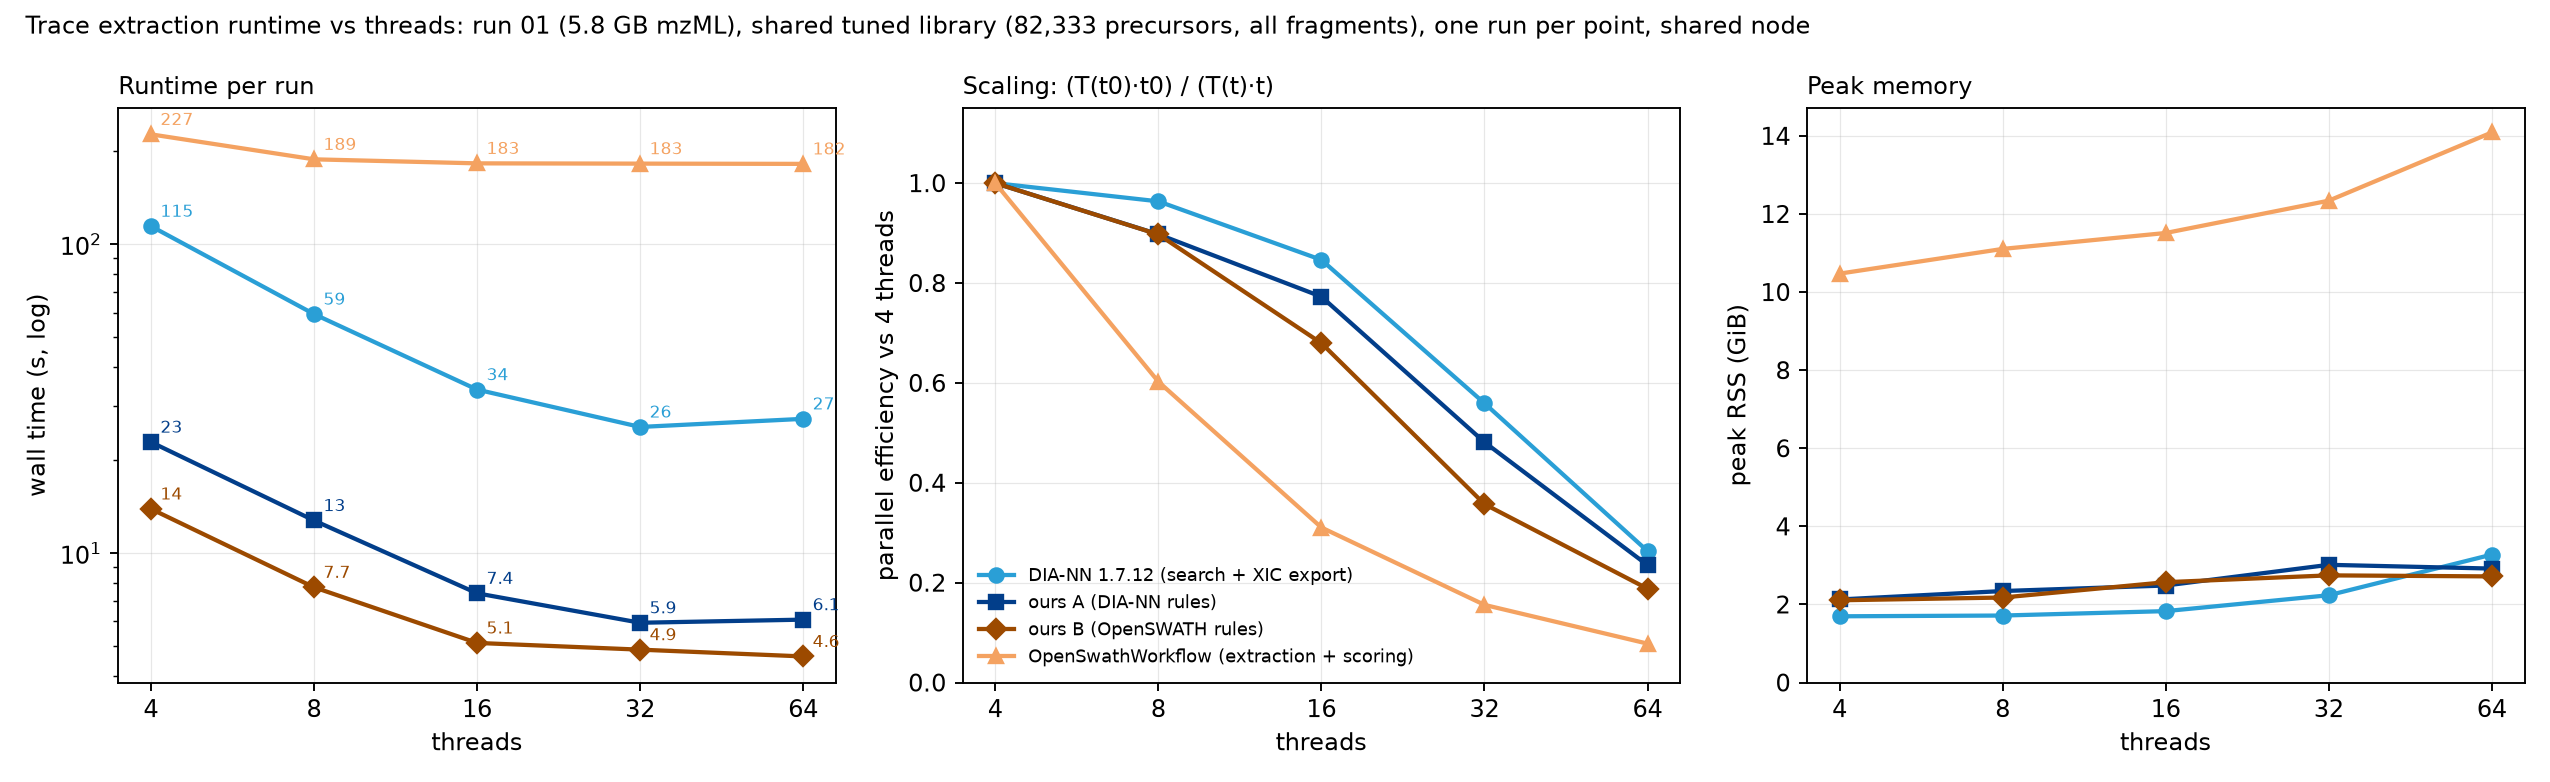
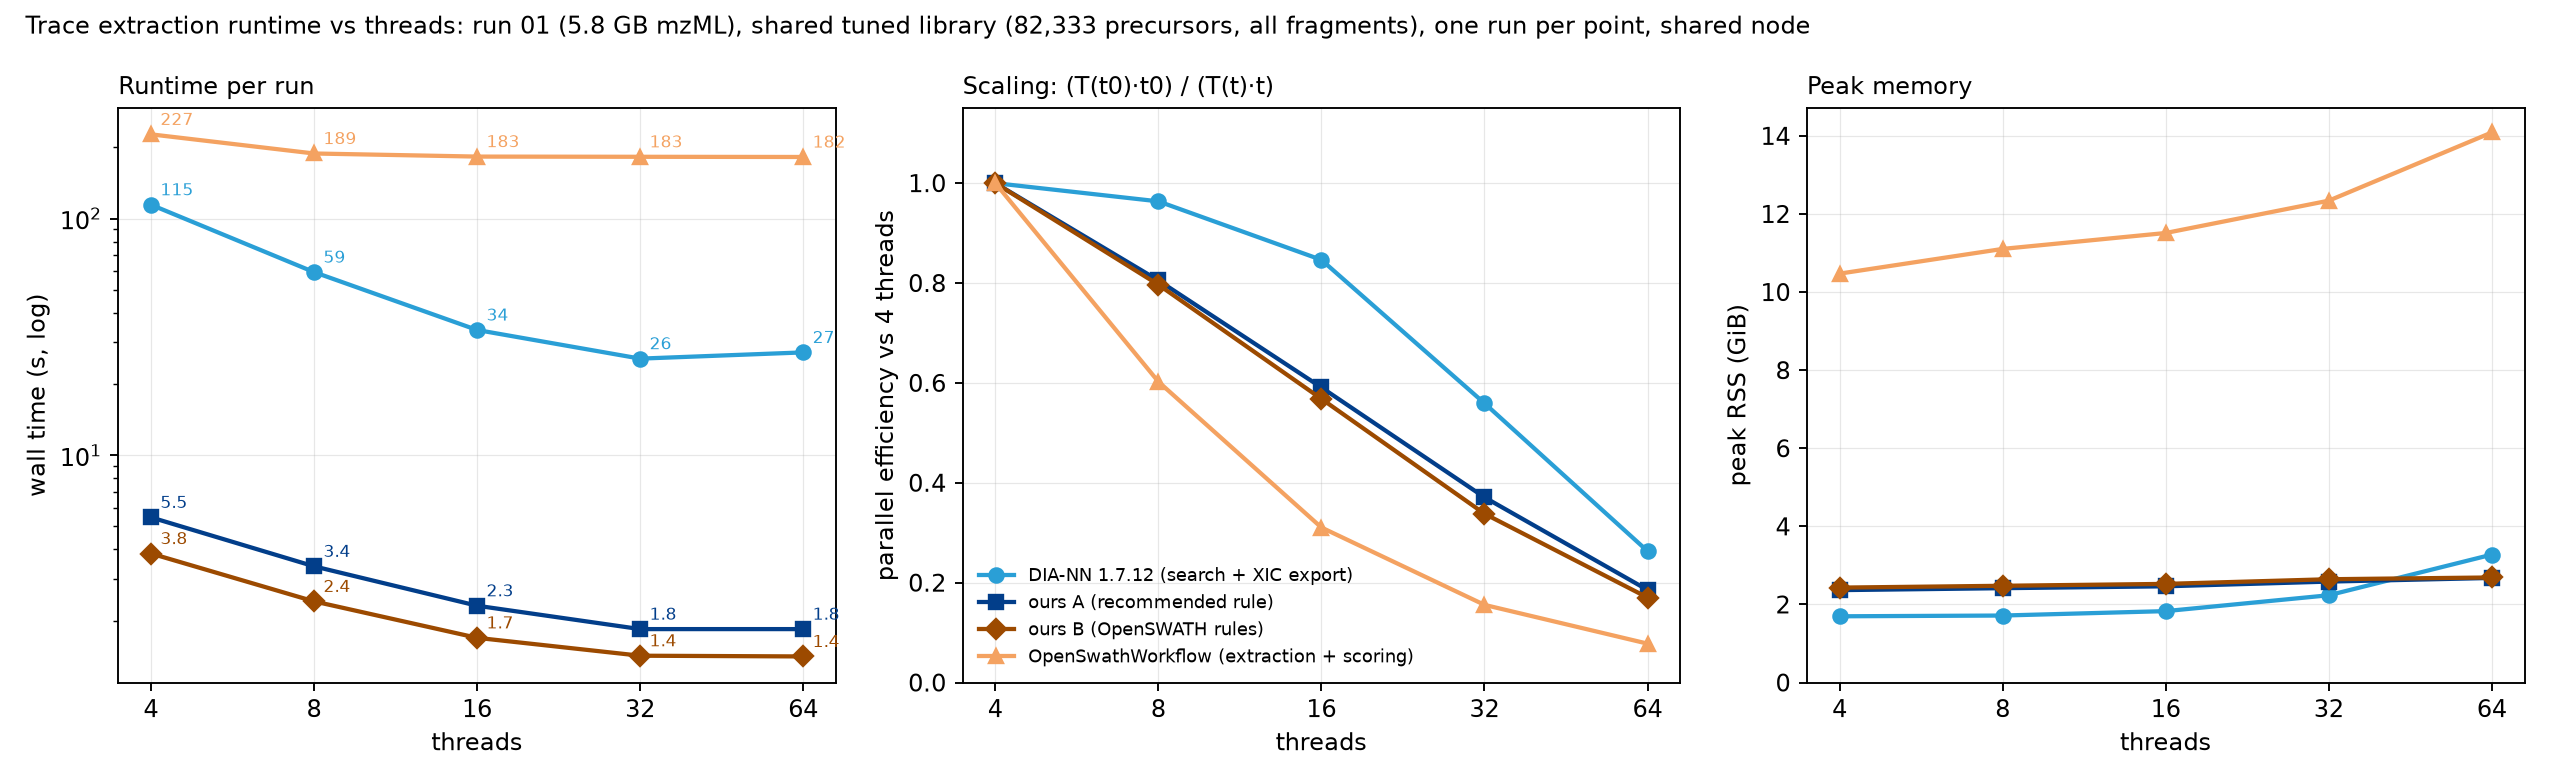
Dossier refresh: replicate runs with the current binary, new thread-scaling figure, performance history
Six library x run combinations re-run (trace agreement reproduced exactly); full libraries at 64 threads:
entrapment 8.6-9.0 s / 4.7 GiB, human 5.9 s / 3.8 GiB. Shared-library scaling: ours A 5.5 s at 4 threads,
1.8 s at 32-64 (DIA-NN 115 / 26 s). bench_threads.sh: ODIA_ONLY mode; A uses the recommended rule.

diff --git a/scripts/plot_thread_scaling.py b/scripts/plot_thread_scaling.py
@@ -11,7 +11,7 @@ import matplotlib.pyplot as plt
 
 bench, out = sys.argv[1], sys.argv[2]
 TOOLS = [("diann/diann", "DIA-NN 1.7.12 (search + XIC export)", "#2a9fd6", "o"),
-         ("odiaA", "ours A (DIA-NN rules)", "#023e8a", "s"),
+         ("odiaA", "ours A (recommended rule)", "#023e8a", "s"),
          ("odiaB", "ours B (OpenSWATH rules)", "#9c4a00", "D"),
          ("osw", "OpenSwathWorkflow (extraction + scoring)", "#f4a261", "^")]
 

diff --git a/docs/00-dossier.md b/docs/00-dossier.md
@@ -1,4 +1,4 @@
-# ODIA-V3 trace extraction: dossier (2026-10-10)
+# ODIA-V3 trace extraction: dossier (2026-10-11)
 
 **Goal.** Fast, memory-efficient extraction of DIA fragment and precursor traces (XICs) from a *predicted, recalibrated*
 library, exported as Parquet/TSV for comparison with DIA-NN and OpenSWATH. Scoring, FDR and PyProphet are out of scope.
@@ -163,6 +163,8 @@ scan-to-scan differences, so the earlier MS1 figures were somewhat flattering.
 | MS1-vs-fragment co-elution, run 01 / 02 | **0.886 / 0.889** | 0.880 / 0.895 | 0.826 / 0.802 | 0.840 / — |
 
 - Ours A now matches or beats DIA-NN on every shape metric.
+- Re-run on 2026-10-11 with the current binary (6 library × run combinations, `results/refined/summary_cbad9dd.md`):
+  every agreement figure above is reproduced exactly, since the trace output is byte-identical across all optimisations.
 - On run 02 the ±6 ppm MS2 window beats DIA-NN's ±8.3 ppm.
 
 ### 3.2 The remaining MS2 differences to DIA-NN, explained
@@ -194,83 +196,70 @@ Details are in [analysis/ms2_tail.md](analysis/ms2_tail.md); example traces in `
 
 ## 4. Performance
 
-Full tuned libraries, run 01, 64 threads, all precursors, top 6 fragments; old binary (whole library in memory) → current
-streaming binary:
+**Current binary** (6d26c49), run 01, 64 threads, full tuned libraries (all precursors, top 6 fragments), mzML on local
+`/scratch`, 2 runs each:
 
-| library | wall time | peak RSS | page faults |
+| library | total | calibration | extraction | peak RSS | traces |
+|---|---|---|---|---|---|
+| human, 3.49 M precursors | 5.9 s (8.5 s with the library cold on Ceph) | 0.5 s | 3.2 s | 3.8 GiB | 31.3 M |
+| entrapment, 7.0 M precursors | 8.6–9.0 s | 0.5 s | 5.7–6.0 s | 4.7 GiB | 63.0 M |
+
+**How we got here** (entrapment, full library, 64 threads):
+
+| step | total | peak RSS | what changed |
 |---|---|---|---|
-| human, 3.49 M precursors, 31.3 M traces | 15.3 → 13.3 s | 4.90 → 3.59 GiB | 4.07 → 2.42 M |
-| entrapment, 7.0 M precursors, 63.0 M traces | 25.7 → 21.0 s | 6.68 → 4.49 GiB | 6.41 → 2.68 M |
+| whole library in memory | 25.7 s | 6.7 GiB | baseline |
+| streamed library, central scheduler, buffer pools | 21.0 s | 4.5 GiB | library never resident; trace and Arrow buffers recycled |
+| merge join, bucket index, 32 output parts (e47b2e8) | 14.4–15.2 s | 4.7 GiB | one walk per spectrum; writer no longer the cap |
+| global peak pool (5b99dda) | 11.9–12.0 s | 4.4 GiB | parsers decode straight into one mmap'd pool; ingest 3.4 → 0.3 s |
+| Arrow pool per-thread cache, reserved builders, panel during ingest, parallel close (cbad9dd) | 10.1–10.4 s | 4.65 GiB | extraction CPU −20%; final drain 1.1 → 0.2 s |
+| calibration stage 1 as a per-window merge join (6d26c49) | 8.6–9.0 s | 4.7 GiB | calibration 1.8 → 0.5 s, identical anchors |
 
-What the current binary does:
+Every step was checked for byte-identical output (trace hash). Details: `docs/06-parallel-efficiency.md`,
+`docs/07-contention-diagnosis.md`.
+
+How the extraction works:
+- **Run grid.** All peaks of the run in one memory-mapped pool (m/z as uint32 at 1e-5 Th, intensity float32), indexed by
+  window and cycle; MS1 on its own scan axis.
 - **Library.** Streamed in parts; it is never resident as a whole.
-- **Trace buffers.** A pre-faulted pool of recycled 256 KiB blocks, freed as soon as each unit is encoded.
-- **Arrow and Parquet buffers.** A recycling allocator in size classes, which removed about 4 GiB of glibc arena retention.
-- **Scheduling.** One worker pool with four task classes (read, extract, encode, write), rebalanced at every task by pipeline
-  pressure. Typical split on the 7 M library: about 0.9 workers reading, 25 extracting, 7 encoding and 7.5 writing (writing is
-  capped at 8 output files).
+- **Scheduling.** One worker pool with four task classes (read, extract, encode, write), rebalanced at every task by
+  pipeline pressure; in-order issue and an ordered commit.
+- **Merge join.** A unit's precursors (one isolation window, sorted by RT) form a sliding range per spectrum; each spectrum's
+  centroids are walked once against the sorted fragment windows. A bucket index (~64 `uint16` per spectrum) skips m/z gaps.
+- **Output.** 32 Parquet parts written by their own tasks; buffers recycled per thread.
 - **Determinism.** Output is byte-identical for 1 and 64 threads.
 
-**Merge join, bucket index, 32 output parts** (current, full tuned libraries, run 01, 64 threads, all precursors and top 6
-fragments, MS1 on its scan axis; previous binary bbad38c → current):
-
-| library | extraction | total | CPU | peak RSS |
-|---|---|---|---|---|
-| human, 3.49 M precursors | 8.1 → 3.6 s | 15.1 → 10.3 s | 414 → 303 s | 3.81 → 3.82 GiB |
-| entrapment, 7.0 M precursors | 15.7 → 6.8 s | 22.6 → 14.4 s | 727 → 512 s | 4.67 → 4.70 GiB |
-
-How the extraction step works now:
-- **Merge join.** A unit's precursors (one isolation window, sorted by RT) have rising spectrum ranges, so the precursors active
-  in a spectrum form a sliding range. A sorted list of their fragment windows is kept up to date as precursors enter and leave
-  the range, and each spectrum's centroids are walked once against it.
-- **Bucket index.** About 64 `uint16` entries per spectrum, roughly 4% of the peak data, let the walk jump over m/z gaps.
-- **Result.** Identical traces; extraction CPU down 27–41%.
-- **What limited wall time.** Not the m/z search but the 8 serially written Parquet parts.
-  - 32 parts (the new default) remove that cap.
-  - Row groups shrink with the part count, so the writers' buffered rows stay constant (about 1 M) and memory does not grow.
-
-MS1 on its scan axis triples the MS1 points: 4.6 G against 3.1 G MS2 points; the output is 2.6 GB for the full 7 M library.
-
-**Runtime vs threads** (run 01, shared tuned library of 82,333 precursors with all fragments, one run per point, nearly idle
-node; `scripts/bench_threads.sh`, `results/threads/`):
+**Runtime vs threads** (run 01, shared tuned library of 82,333 precursors with all fragments, one run per point;
+`scripts/bench_threads.sh`, `results/threads_6d26c49/`; ours re-measured with 6d26c49, DIA-NN and OpenSWATH from
+`results/threads/`, unchanged binaries):
 
 ![Thread scaling](figures/thread_scaling.png)
 
 | threads | ours A | ours B | DIA-NN 1.7.12³ | OpenSwathWorkflow⁴ |
 |---|---|---|---|---|
-| 4 | 22.9 s / 2.1 GiB | 13.9 s / 2.1 GiB | 115 s / 1.7 GiB | 227 s / 10.5 GiB |
-| 8 | 12.7 s | 7.7 s | 59 s | 189 s |
-| 16 | 7.4 s | 5.1 s | 34 s | 183 s |
-| 32 | 5.9 s | 4.9 s | 26 s | 183 s |
-| 64 | 6.1 s / 2.9 GiB | 4.6 s / 2.7 GiB | 27 s / 3.3 GiB | 182 s / 14.1 GiB |
+| 4 | 5.5 s / 2.4 GiB | 3.8 s / 2.4 GiB | 115 s / 1.7 GiB | 227 s / 10.5 GiB |
+| 8 | 3.4 s | 2.4 s | 59 s | 189 s |
+| 16 | 2.3 s | 1.7 s | 34 s | 183 s |
+| 32 | 1.8 s | 1.4 s | 26 s | 183 s |
+| 64 | 1.8 s / 2.7 GiB | 1.4 s / 2.7 GiB | 27 s / 3.3 GiB | 182 s / 14.1 GiB |
 
 ³ DIA-NN can export traces only while it searches, so its time includes the search. ⁴ OpenSWATH's time includes its scoring.
+Ours A is now the recommended rule (MS2 ±6 ppm, MS1 measured); before it used DIA-NN's tolerances (22.9 s at 4 threads,
+6.1 s at 64, on the older binary).
 
-- **Ours A vs ours B.** Ours A pays for its self-calibration of the mass offsets (panel and calibration).
-- **Fast mzML ingest** (commit bbad38c, measured after this benchmark). Spectra are parsed straight from the file bytes, and the
-  vendor userParams are skipped. Output is byte-identical to the OpenMS parser.
-
-  | ingest, run 01 | before | after |
-  |---|---|---|
-  | CPU time | 79 s | 17 s |
-  | wall time | 3.9 s | 3.3 s |
-  | page faults | 1.55 M | 0.85 M |
-  | peak memory | 2.93 GiB | 2.40 GiB |
-- **Speed.** Ours is 4–5× faster than DIA-NN at every thread count, and 30–40× faster than OpenSWATH at 16+ threads.
-- **Where ours stops scaling.** Beyond 16–32 threads, ingesting the 5.8 GB mzML dominates our runtime; mzPeak input should help
-  there.
+- **Speed.** Ours A is 14–21× faster than DIA-NN and 40–100× faster than OpenSWATH at every thread count.
+- **Ours A vs ours B.** A pays 0.4–1.7 s for its self-calibration (panel load and calibration).
+- **Scaling.** Ours flattens beyond 32 threads at this size (1.8 s, of which ingest 0.3 s, panel and calibration ~1 s);
+  on the full 7 M library extraction still scales to 64 threads.
 - **OpenSWATH stops scaling at 8 threads,** while its memory grows to 14 GiB.
+- **mzPeak input** goes through the OpenMS mzPeak reader (only); its serial `transform()` takes ~8 s for run 01, against
+  0.3 s for our mzML path. Requests to the reader agent: `docs/08-mzpeak-reader-handoff-2.md`.
 
 ## 5. Open items
 
-- **Done (bbad38c):**
-  - recommended rule adopted;
-  - MS2 offset bias fixed;
-  - MS1 on its own scan axis;
-  - fast mzML ingest;
-  - the MS2 tail explained;
-  - Parquet footer metadata (`odia.*`) now actually written.
-- **Optional:** a DIA-NN exact-parity mode that reads DIA-NN's quadratic m/z correction from its `--verbose 3` log, emulated in
-  float32.
-- **mzPeak input:** waiting on the converter (vendor-centroided MS1) and on a parallel reader (handoffs `04`, `05`).
-- **Ingest beyond 32 threads** is now limited by reading the file (3.3 s wall, 17 s CPU).
+- **mzPeak:** waiting on the OpenMS mzPeak reader (0.17.2 support, empty spectra, a partitioned parallel API; handoffs `04`,
+  `08`) and on vendor-centroided MS1 from the converter (handoff `05`).
+- **DIALibGen PR #4:** after the merge, regenerate the libraries and re-measure library loading.
+- **50K shared library (Justin).**
+- **Lower priority:** scheduling beyond 64 threads; a compact-v2 library layout.
+- **Dropped:** per-peptide RT refinement (to be handled by library refinement in DIALibGen); a DIA-NN exact-parity mode.
